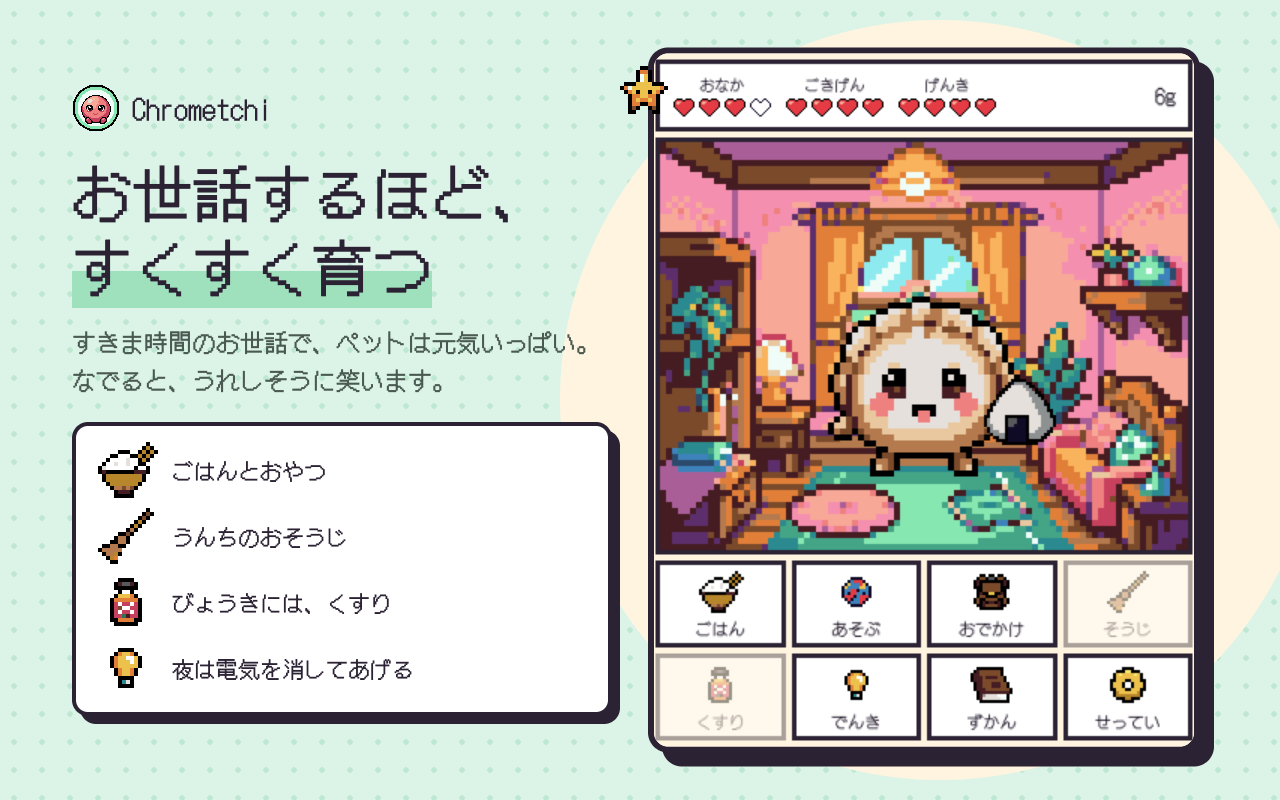
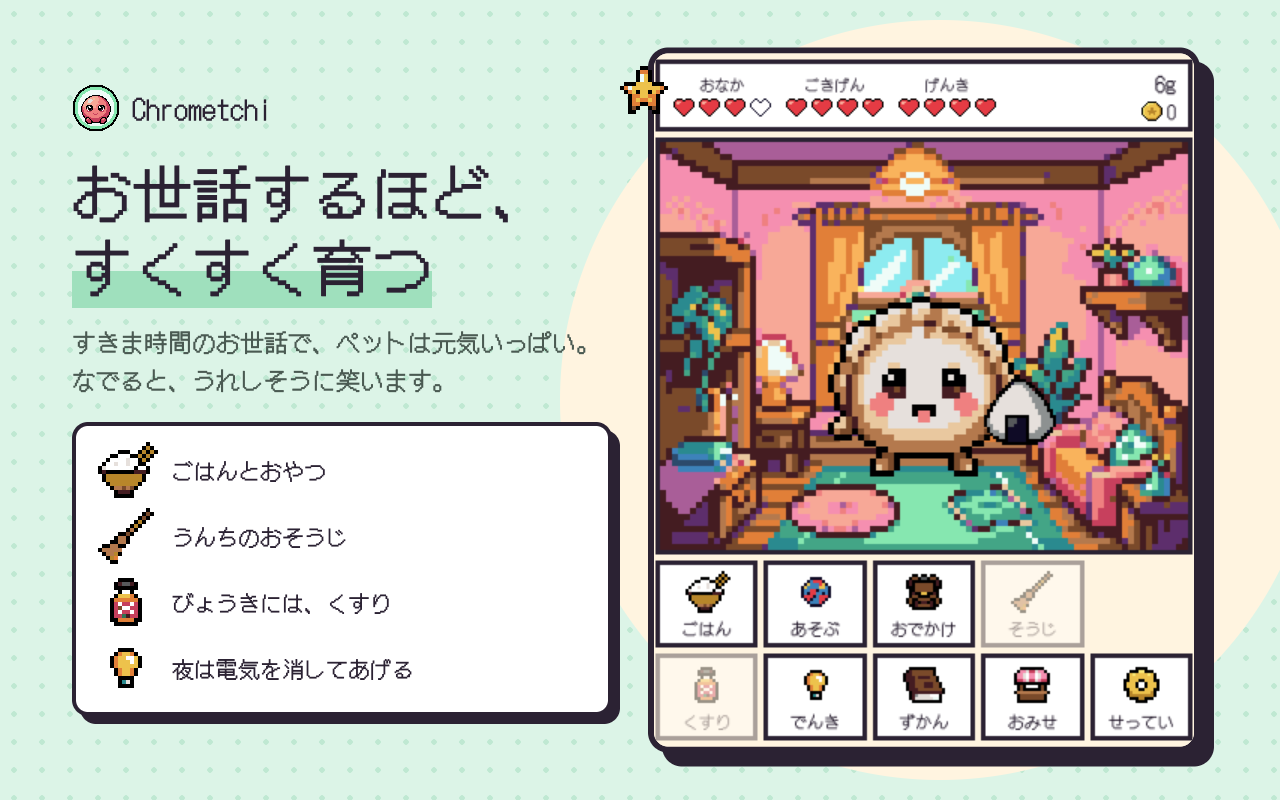
docs: describe coins and missions, refresh the store screenshots

Changed region(s): [[0.5312, 0.6875, 0.9375, 0.9375], [0.875, 0.0938, 0.9375, 0.1562]]

diff --git a/README.md b/README.md
@@ -22,9 +22,10 @@ Japanese) is in [`docs/store/listing.md`](docs/store/listing.md), and the privac
 - **Care**: meals and treats, mini-games (Catch, Cups, Stop), cleaning up, medicine, lights out, and petting. Only rice and candy are free; everything else comes from the pantry.
 - **Outings**: fishing, hunting and gathering (three trips each a day) and a small farm fill the pantry.
 - **Cooking**: put up to four ingredients in the pot to discover 12 recipes; found recipes stay in the recipe book.
+- **Coins and missions**: coins come from each generation's send-off, zukan milestones, missions (cleaning, playing, feeding, outings, harvests, cooking) and selling ingredients in the shop.
 - **Time only runs while Chrome is open.** Your pet sleeps at night (configurable) and needs the lights off.
 - **Warnings before death**: notifications and an in-popup banner tell you when life is in danger.
-- **Zukan**: a collection of every form you have discovered, memories of past pets, and your recipe book.
+- **Zukan**: a collection of every form you have discovered, memories of past pets, your recipe book and your missions.
 - **Walks on web pages** (optional): your pet strolls along the bottom of the pages you browse. Click it to hear how it is doing, drag it aside, or hide it on a site. Site access is asked for only when you turn this on.
 - English and Japanese, optional chiptune sound effects (off by default).
 
